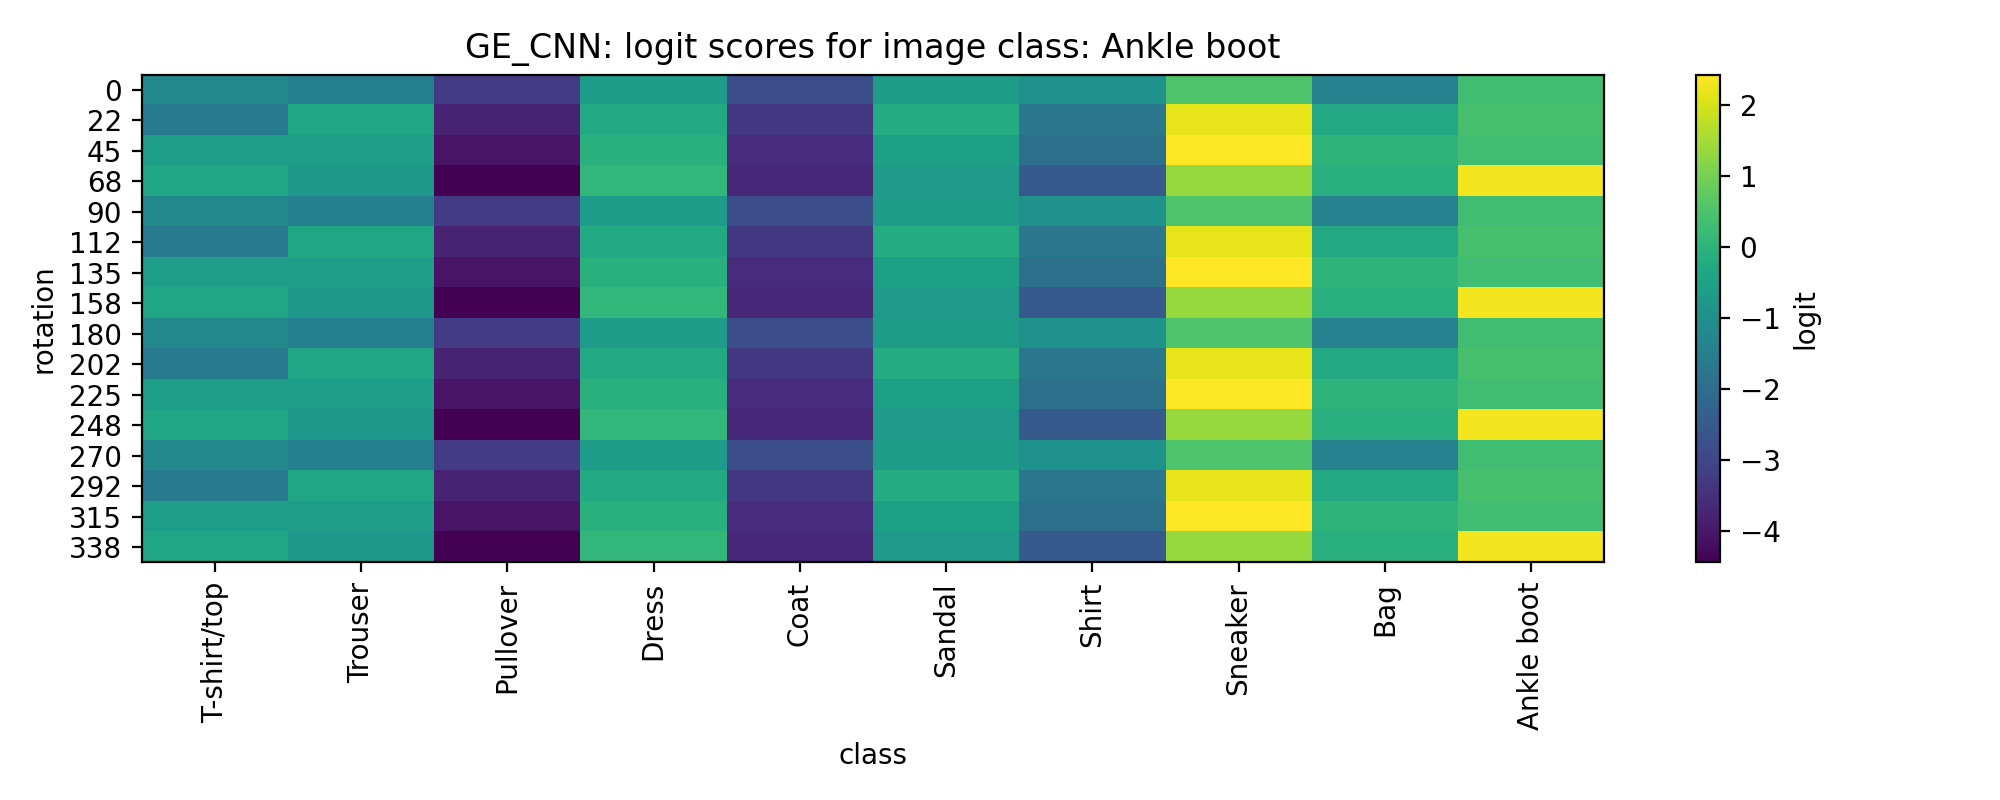
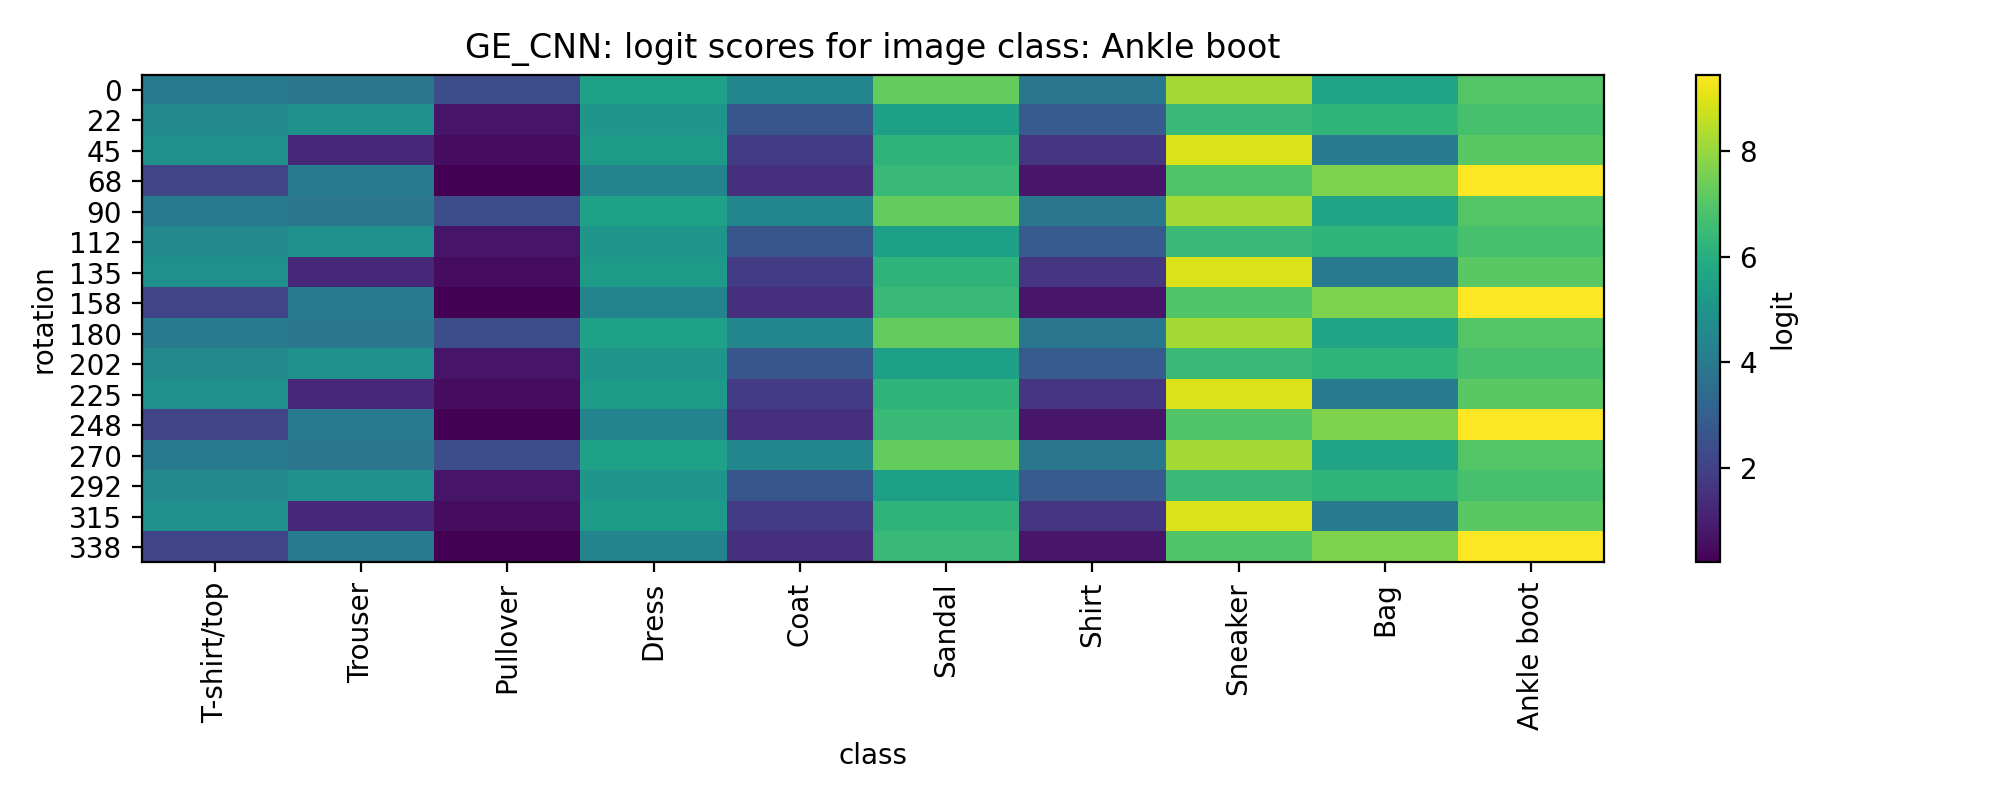
More plots for the quantiattive equivaraince test

diff --git a/src/quantified_equivariance_test_rotated.py b/src/quantified_equivariance_test_rotated.py
@@ -30,12 +30,12 @@ from models.Model import CNN, GE_CNN
 
 # ---------------- FREE PARAMETERS ----------------
 WEIGHTS = {
-    "CNN":    ROOT / "reports/param_datasize_2/CNN/datasize_0.2/channels_16/weights_seed3.pth",
+    "CNN":    ROOT / "reports/param_datasize_2/CNN/datasize_0.03/channels_16/weights_seed3.pth",
     "GE_CNN": ROOT / "reports/param_datasize_2/GE_CNN/datasize_0.03/channels_8/weights_seed3.pth",
 }
 N_ROTATIONS   = 16     # number of angles, full circle (multiple of 4 -> 90-deg pairs exist)
 TARGET_LAYER  = 6      # depth of the partial model used for the scalar metric table
-NUM_IMAGES    = 1      # images to produce per-image plots/grids for
+NUM_IMAGES    = 4      # images to produce per-image plots/grids for
 NUM_QUANT_IMG = 200    # images to average the scalar metrics over
 N_GRID_IMG    = 200     # images to average the feature equivariance grid over
 CHANNEL       = 1      # default feature channel (per-plot channel is set in main)
@@ -145,7 +145,7 @@ def feats_at(model, target_layer, img):          # img [1,H,W] -> list of [C,h,w
         return [partial(r[None]).abs()[0] for r in rots]
 
 
-def plot_feature_grid(model, name, target_layer, channel, img, angles=(0, 22.5, 45,  90)):
+def plot_feature_grid(model, name, target_layer, channel, img, img_idx, angles=(0, 22.5, 45,  90)):
     feats = feats_at(model, target_layer, img)
     idxs  = [min(range(len(ANGLES)), key=lambda k: abs(ANGLES[k] - a)) for a in angles]
     ch0   = feats[0][channel].cpu()
@@ -161,7 +161,8 @@ def plot_feature_grid(model, name, target_layer, channel, img, angles=(0, 22.5, 
         ax[1, col].imshow(feats[gi][channel].cpu().numpy(), cmap="viridis"); ax[1, col].axis("off")
         ax[1, col].set_title(rf"$f(\rho(g)\,x)$  {a:.0f}°")
     fig.tight_layout(rect=[0, 0, 1, 0.95])
-    fig.savefig(OUT_DIR / f"ROT_{name}_L{target_layer}_ch{channel}_feature_plot.png", dpi=200)
+    fig.savefig(OUT_DIR / f"ROT_{name}_img{img_idx}_L{target_layer}_ch{channel}_feature_plot.png", dpi=200)
+    plt.close(fig)
 
 
 def plot_class_scores(mat, name, idx, kind, cls):     # mat [N_angles,10]; cls = true class of the image
@@ -171,7 +172,7 @@ def plot_class_scores(mat, name, idx, kind, cls):     # mat [N_angles,10]; cls =
     plt.xticks(range(10), CLASS_NAMES, rotation=90)
     plt.yticks(range(len(ANGLES)), [f"{a:.0f}" for a in ANGLES])
     plt.title(f"{name}: {kind} scores for image class: {cls}"); plt.tight_layout()
-    plt.savefig(OUT_DIR / f"ROT_{name}_classscores_{kind}_img{idx}.png", dpi=200); plt.close()
+    plt.savefig(OUT_DIR / f"ROT_{name}_img{idx}_classscores_{kind}.png", dpi=200); plt.close()
 
 
 def plot_invariance_grid(D, name, vmax=None):    # mean softmax invariance grid ||p_i - p_j||
@@ -218,14 +219,21 @@ def ms(values):
 def main():
     OUT_DIR.mkdir(parents=True, exist_ok=True)
     data   = RotatedMNIST(split="test", rotated=False, padding=PADDING)   # unrotated; we rotate ourselves
-    img0   = data[0][0]
-    cls0   = CLASS_NAMES[int(data[0][1])]                                 # true class of the shown image
     models = {name: load_model(path) for name, path in WEIGHTS.items()}
 
-    # --- Feature plots: (model, layer, channel) ---
-    for name, layer, ch in [("GE_CNN", 2, 3), ("GE_CNN", 6, 7),
-                            ("CNN", 2, 3), ("CNN", 6, 15)]:
-        plot_feature_grid(models[name], name, layer, ch, img0)
+    # --- Per-image plots: feature plots + class-score grids for NUM_IMAGES images ---
+    # The same (model, layer, channel) feature combos are shown for every image.
+    feature_plots = [("GE_CNN", 2, 3), ("GE_CNN", 6, 7), ("CNN", 2, 3), ("CNN", 6, 15)]
+    for x in range(NUM_IMAGES):
+        img = data[x][0]
+        cls = CLASS_NAMES[int(data[x][1])]                                # true class of this image
+        for name, layer, ch in feature_plots:
+            plot_feature_grid(models[name], name, layer, ch, img, x)
+        rots = rotate_to_angles(img).to(DEVICE)
+        for name, model in models.items():
+            with torch.no_grad():
+                logits = torch.stack([model(r[None])[0] for r in rots])
+            plot_class_scores(torch.softmax(logits, dim=1), name, x, "softmax", cls)
 
     # --- Feature equivariance grids at layer 2 and 6, both models (mean over images) ---
     grid_imgs = [data[i][0] for i in range(N_GRID_IMG)]
@@ -233,26 +241,13 @@ def main():
         for layer in (2, 6):
             plot_feature_diffgrid(model, name, layer, grid_imgs)
 
-    # --- Invariance plots + scalar metrics (table uses global TARGET_LAYER) ---
+    # --- Scalar metrics + mean softmax invariance grids (table uses global TARGET_LAYER) ---
     summary = {}
-
-    # img0 softmax per model, so both invariance grids share one color scale.
-    img0_rots = rotate_to_angles(img0).to(DEVICE)
-    img0_logits, img0_soft = {}, {}
-    for name, model in models.items():
-        with torch.no_grad():
-            lg = torch.stack([model(r[None])[0] for r in img0_rots])
-        img0_logits[name] = lg
-        img0_soft[name] = torch.softmax(lg, dim=1)
     inv_grids = {}
-
     for name, model in models.items():
         partial  = make_partial(model, TARGET_LAYER)
         n_params = sum(p.numel() for p in model.parameters())
         print(f"\n=== {name} | params={n_params:,} | layers={TARGET_LAYER} | angles={N_ROTATIONS} ===")
-
-        plot_class_scores(img0_logits[name], name, 0, "logit", cls0)
-        plot_class_scores(img0_soft[name],   name, 0, "softmax", cls0)
 
         acc = {m: {s: [] for s in ("exact", "interp", "all")}
                for m in ("logit", "softmax", "feature")}

diff --git a/src/quantified_equivariance_test.py b/src/quantified_equivariance_test.py
@@ -35,7 +35,7 @@ WEIGHTS = {
 }
 N_ROTATIONS   = 16     # number of angles, full circle (multiple of 4 -> 90-deg pairs exist)
 TARGET_LAYER  = 6      # depth of the partial model used for the scalar metric table
-NUM_IMAGES    = 1      # images to produce per-image plots/grids for
+NUM_IMAGES    = 4      # images to produce per-image plots/grids for
 NUM_QUANT_IMG = 200    # images to average the scalar metrics over
 N_GRID_IMG    = 200     # images to average the feature equivariance grid over
 CHANNEL       = 1      # default feature channel (per-plot channel is set in main)
@@ -145,7 +145,7 @@ def feats_at(model, target_layer, img):          # img [1,H,W] -> list of [C,h,w
         return [partial(r[None]).abs()[0] for r in rots]
 
 
-def plot_feature_grid(model, name, target_layer, channel, img, angles=(0, 22.5, 45,  90)):
+def plot_feature_grid(model, name, target_layer, channel, img, img_idx, angles=(0, 22.5, 45,  90)):
     feats = feats_at(model, target_layer, img)
     idxs  = [min(range(len(ANGLES)), key=lambda k: abs(ANGLES[k] - a)) for a in angles]
     ch0   = feats[0][channel].cpu()
@@ -161,7 +161,8 @@ def plot_feature_grid(model, name, target_layer, channel, img, angles=(0, 22.5, 
         ax[1, col].imshow(feats[gi][channel].cpu().numpy(), cmap="viridis"); ax[1, col].axis("off")
         ax[1, col].set_title(rf"$f(\rho(g)\,x)$  {a:.0f}°")
     fig.tight_layout(rect=[0, 0, 1, 0.95])
-    fig.savefig(OUT_DIR / f"{name}_L{target_layer}_ch{channel}_feature_plot.png", dpi=200)
+    fig.savefig(OUT_DIR / f"{name}_img{img_idx}_L{target_layer}_ch{channel}_feature_plot.png", dpi=200)
+    plt.close(fig)
 
 
 def plot_class_scores(mat, name, idx, kind, cls):     # mat [N_angles,10]; cls = true class of the image
@@ -171,7 +172,7 @@ def plot_class_scores(mat, name, idx, kind, cls):     # mat [N_angles,10]; cls =
     plt.xticks(range(10), CLASS_NAMES, rotation=90)
     plt.yticks(range(len(ANGLES)), [f"{a:.0f}" for a in ANGLES])
     plt.title(f"{name}: {kind} scores for image class: {cls}"); plt.tight_layout()
-    plt.savefig(OUT_DIR / f"{name}_classscores_{kind}_img{idx}.png", dpi=200); plt.close()
+    plt.savefig(OUT_DIR / f"{name}_img{idx}_classscores_{kind}.png", dpi=200); plt.close()
 
 
 def plot_invariance_grid(D, name, vmax=None):    # mean softmax invariance grid ||p_i - p_j||
@@ -218,14 +219,21 @@ def ms(values):
 def main():
     OUT_DIR.mkdir(parents=True, exist_ok=True)
     data   = RotatedMNIST(split="test", rotated=False, padding=PADDING)   # unrotated; we rotate ourselves
-    img0   = data[0][0]
-    cls0   = CLASS_NAMES[int(data[0][1])]                                 # true class of the shown image
     models = {name: load_model(path) for name, path in WEIGHTS.items()}
 
-    # --- Feature plots: (model, layer, channel) ---
-    for name, layer, ch in [("GE_CNN", 2, 3), ("GE_CNN", 6, 7),
-                            ("CNN", 2, 3), ("CNN", 6, 15)]:
-        plot_feature_grid(models[name], name, layer, ch, img0)
+    # --- Per-image plots: feature plots + class-score grids for NUM_IMAGES images ---
+    # The same (model, layer, channel) feature combos are shown for every image.
+    feature_plots = [("GE_CNN", 2, 3), ("GE_CNN", 6, 7), ("CNN", 2, 3), ("CNN", 6, 15)]
+    for x in range(NUM_IMAGES):
+        img = data[x][0]
+        cls = CLASS_NAMES[int(data[x][1])]                                # true class of this image
+        for name, layer, ch in feature_plots:
+            plot_feature_grid(models[name], name, layer, ch, img, x)
+        rots = rotate_to_angles(img).to(DEVICE)
+        for name, model in models.items():
+            with torch.no_grad():
+                logits = torch.stack([model(r[None])[0] for r in rots])
+            plot_class_scores(torch.softmax(logits, dim=1), name, x, "softmax", cls)
 
     # --- Feature equivariance grids at layer 2 and 6, both models (mean over images) ---
     grid_imgs = [data[i][0] for i in range(N_GRID_IMG)]
@@ -233,26 +241,13 @@ def main():
         for layer in (2, 6):
             plot_feature_diffgrid(model, name, layer, grid_imgs)
 
-    # --- Invariance plots + scalar metrics (table uses global TARGET_LAYER) ---
+    # --- Scalar metrics + mean softmax invariance grids (table uses global TARGET_LAYER) ---
     summary = {}
-
-    # img0 softmax per model, so both invariance grids share one color scale.
-    img0_rots = rotate_to_angles(img0).to(DEVICE)
-    img0_logits, img0_soft = {}, {}
-    for name, model in models.items():
-        with torch.no_grad():
-            lg = torch.stack([model(r[None])[0] for r in img0_rots])
-        img0_logits[name] = lg
-        img0_soft[name] = torch.softmax(lg, dim=1)
     inv_grids = {}
-
     for name, model in models.items():
         partial  = make_partial(model, TARGET_LAYER)
         n_params = sum(p.numel() for p in model.parameters())
         print(f"\n=== {name} | params={n_params:,} | layers={TARGET_LAYER} | angles={N_ROTATIONS} ===")
-
-        plot_class_scores(img0_logits[name], name, 0, "logit", cls0)
-        plot_class_scores(img0_soft[name],   name, 0, "softmax", cls0)
 
         acc = {m: {s: [] for s in ("exact", "interp", "all")}
                for m in ("logit", "softmax", "feature")}
